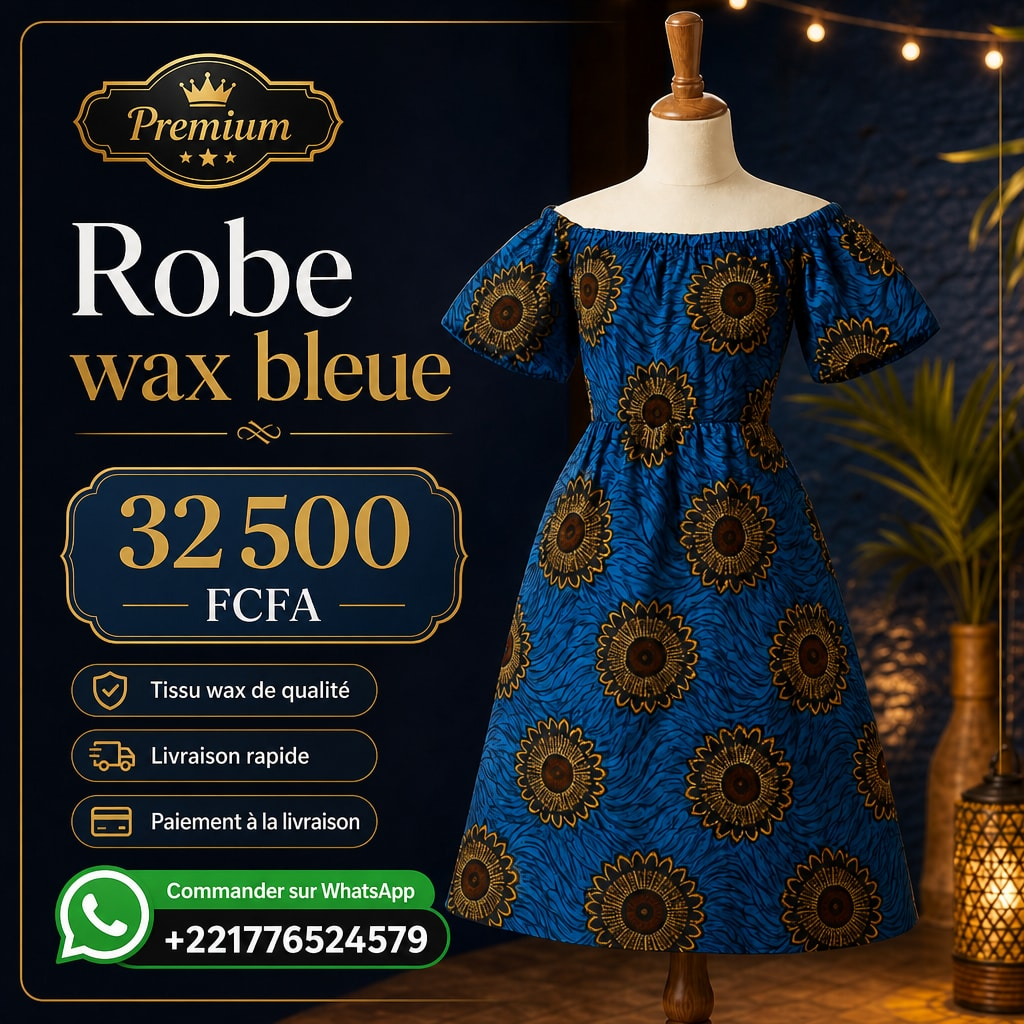
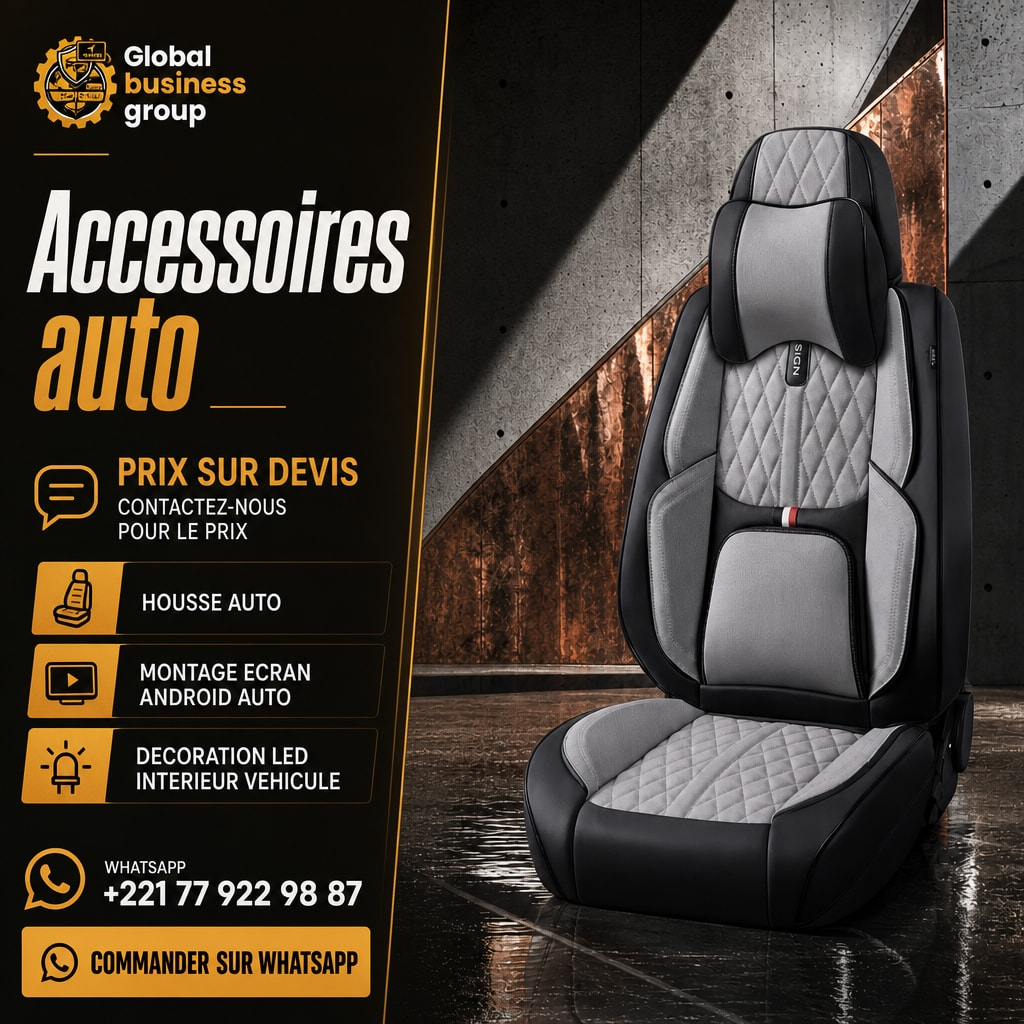
Saving changes regarding showing cases Jaarle can do

diff --git a/app/layout.tsx b/app/layout.tsx
@@ -8,7 +8,7 @@ import { WhatsAppFloatButton } from "@/components/whatsapp-float-button";
 const inter = Inter({ subsets: ["latin"], variable: "--font-inter" });
 const mono = JetBrains_Mono({ subsets: ["latin"], variable: "--font-mono" });
 
-const title = "Jaarle — Nako nepp yeg";
+const title = "Jaarle — Vendez comme une grande marque.";
 const description =
   "L'assistant marketing IA pour les commerçants africains. Crée ton affiche, ta story et ton texte de vente en 30 secondes.";
 